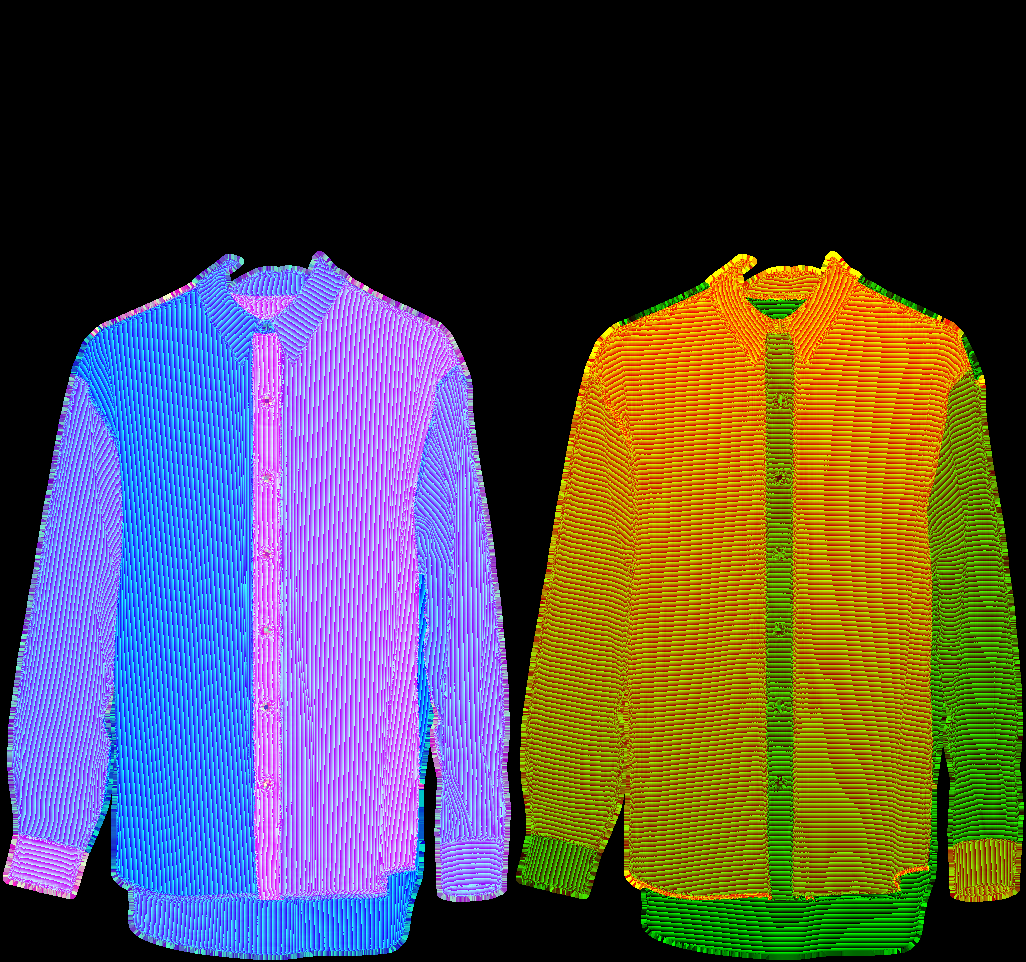
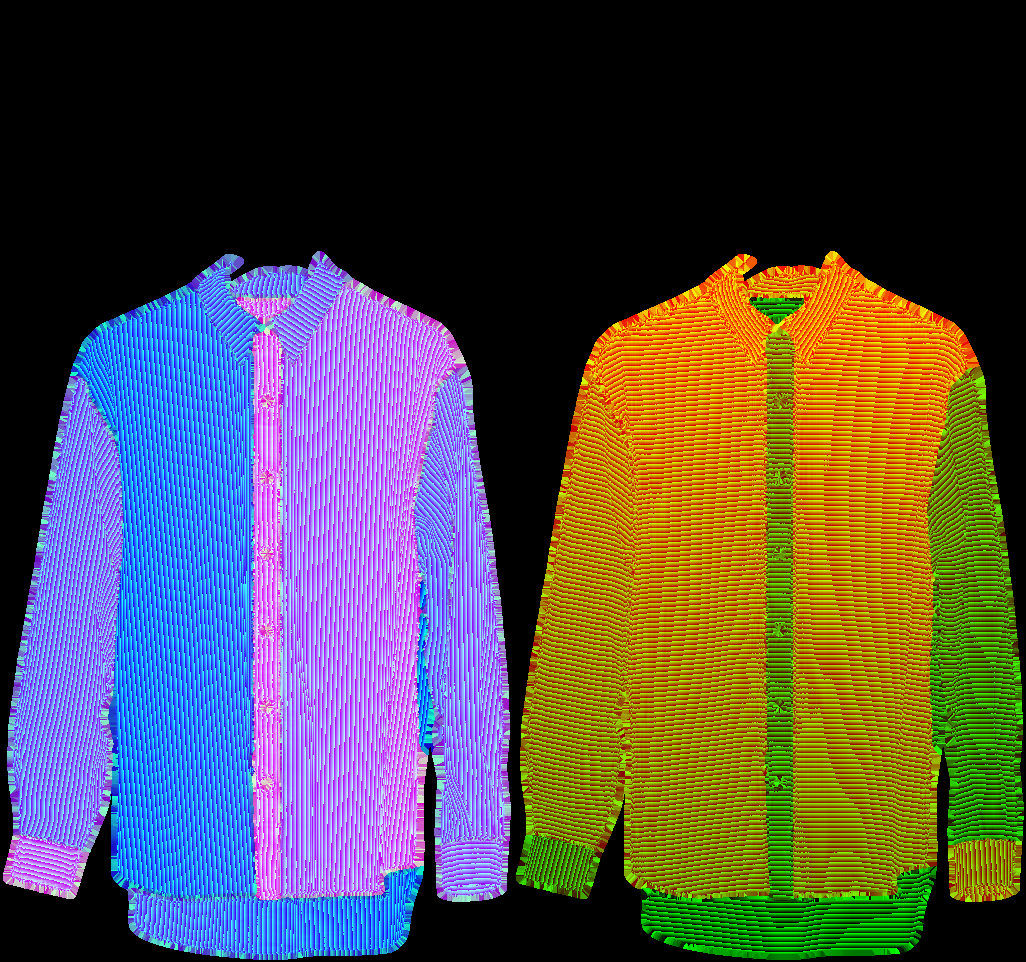
Camicia tinta: il disegno arriva fino a bordi e cuciture, niente parete tinta sui colli piccoli
Dalla revisione nel browser (in corso):
- sui rigati contrastati, lungo cuciture e contorni c'era una fascia del
  colore medio del tessuto (un profilo rosa attorno a una camicia a righe
  rosse). Ora contorni, cuciture e risvolti stretti prendono la posizione
  del punto buono più vicino del pezzo grande accanto, e lì il campione si
  legge appena sfocato: le righe arrivano al bordo, i microdisegni non
  fanno puntini;
- con i colli coreano e diplomatico la parete dipinta dal collo prendeva il
  colore del tessuto (una riga quasi nera lungo le spalle): la parete si
  riconosce dal suo blu e non si tinge.
Due controlli nuovi in prova-vesti.js (192 su 192 sulla copia di prova).

Claude-Session: https://claude.ai/code/session_01D8Lb2KTLGf2y6eiKFqLGEZ

diff --git a/src/configuratore/tinta.js b/src/configuratore/tinta.js
@@ -25,8 +25,8 @@ uniform vec2 misura, r0, r1, r2;
 uniform float morbido, fitto, passo, mezzo;
 varying vec2 q;
 // Un punto della trama: xy dove sta nel cartamodello, z se la posizione c'e (0 no, 1 vera, 3 presa in prestito dal
-// punto di stoffa piu vicino). La trama e larga il doppio: a sinistra la prima coordinata (rosso i bit alti, verde i
-// bassi) e nel blu se c'e; a destra la seconda coordinata
+// punto buono piu vicino: contorni, cuciture, risvolti stretti; vale come una vera). La trama e larga il
+// doppio: a sinistra la prima coordinata (rosso i bit alti, verde i bassi) e nel blu se c'e; a destra la seconda
 vec3 leggi(vec2 i) {
   vec2 d = vec2(0.5 / misura.x, 1.0 / misura.y);
   vec2 c = clamp(i, vec2(0.0), misura - 1.0);
@@ -41,13 +41,18 @@ float stessa(vec3 m, vec3 n) {
 }
 // il colore (lineare) di un campione in un punto del cartamodello: quanto sfocato lo dice quanto cambia la posizione
 // da un punto dello schermo al vicino (da lontano le righe sottili diventano il loro colore medio)
-vec3 campione(sampler2D t, vec2 rip, vec2 uv, vec2 dx, vec2 dy, float orlo) {
+vec3 campione(sampler2D t, vec2 rip, vec2 uv, vec2 dx, vec2 dy, float orlo, float prestito) {
   vec2 ex = dx * rip * 256.0 / fitto, ey = dy * rip * 256.0 / fitto;
-  // (mai piu nitido della stoffa stesa di fronte; sul bordo, dove la posizione e presa in prestito, sempre piu
-  // sfocato fino al colore medio: un contorno pulito, senza puntini)
+  // (mai piu nitido della stoffa stesa di fronte; oltre la sagoma, dove la foto sfuma nella parete, appena piu morbido.
+  // Fino al 26 novembre li e lungo le cuciture si leggeva il colore medio del tessuto: su un rigato contrastato
+  // veniva un profilo rosa tutto intorno. Ora il disegno prosegue fino al bordo: vedi impacchetta in trame.py)
   float piano = passo * max(rip.x, rip.y) * 256.0 / fitto;
   float fine = max(0.0, 0.5 * log2(max(max(dot(ex, ex), dot(ey, ey)), piano * piano) + 1e-12) + morbido);
-  fine = max(fine, mix(0.0, 7.0, orlo));
+  fine = max(fine, mix(0.0, 1.5, orlo));
+  // Dove la posizione e presa in prestito (contorni, cuciture) e la stessa per due o tre punti di fila: un disegno
+  // piu fine di cosi li darebbe un colore a caso per ogni punto (puntini lungo le cuciture). Li si legge sfocato di
+  // tre punti: le righe larghe restano righe, i microdisegni diventano il loro colore
+  fine = max(fine, 0.5 * log2(piano * piano + 1e-12) + morbido + 1.6 * prestito);
   // (la seconda coordinata del cartamodello cresce verso l'alto, le righe del campione verso il basso)
   return pow(texture2DLodEXT(t, vec2(uv.x, -uv.y) * rip, fine).rgb, vec3(2.2));
 }
@@ -63,13 +68,11 @@ vec3 stoffaDi(vec3 k, vec2 pk, vec3 a, vec3 b, vec3 c, vec3 d, vec4 w, vec3 zone
   vec3 xp = leggi(pk + vec2(1.0, 0.0)), xm = leggi(pk - vec2(1.0, 0.0)), yp = leggi(pk + vec2(0.0, 1.0)), ym = leggi(pk - vec2(0.0, 1.0));
   vec2 dx = stessa(k, xp) > 0.0 ? xp.xy - k.xy : (stessa(k, xm) > 0.0 ? k.xy - xm.xy : vec2(0.04, 0.0));
   vec2 dy = stessa(k, yp) > 0.0 ? yp.xy - k.xy : (stessa(k, ym) > 0.0 ? k.xy - ym.xy : vec2(0.0, 0.04));
-  // (anche dove tutte le posizioni sono prese in prestito, oltre la sagoma, il colore e quello medio)
   float prestate = (ma * float(a.z == 3.0) + mb * float(b.z == 3.0) + mc * float(c.z == 3.0) + md * float(d.z == 3.0)) / tutti;
-  float o = max(orlo, prestate);
   vec3 colore = vec3(0.0);
-  if (zone.x > 0.002) colore += zone.x * campione(t0, r0, uv, dx, dy, o);
-  if (zone.y > 0.002) colore += zone.y * campione(t1, r1, uv, dx, dy, o);
-  if (zone.z > 0.002) colore += zone.z * campione(t2, r2, uv, dx, dy, o);
+  if (zone.x > 0.002) colore += zone.x * campione(t0, r0, uv, dx, dy, orlo, prestate);
+  if (zone.y > 0.002) colore += zone.y * campione(t1, r1, uv, dx, dy, orlo, prestate);
+  if (zone.z > 0.002) colore += zone.z * campione(t2, r2, uv, dx, dy, orlo, prestate);
   return colore;
 }
 void main() {
@@ -81,7 +84,11 @@ void main() {
   float mx = clamp(q.x, mezzo, 1.0 - mezzo) * 0.5;
   vec3 mc = texture2D(maschera, vec2(mx, q.y)).rgb, mz = texture2D(maschera, vec2(mx + 0.5, q.y)).rgb;
   float lontano = f.a < 0.98 ? mc.b : 0.0;
-  float copre = mc.r + mc.g + lontano;
+  // Un collo piu piccolo (coreano, diplomatico) dipinge la parete dove quello di base non c'e piu: li la foto non e
+  // camicia, e tingerla darebbe una riga quasi nera lungo le spalle. La parete si riconosce dal suo blu pieno (la
+  // camicia bianca, anche in ombra, non e mai cosi satura)
+  float parete = smoothstep(0.58, 0.70, (f.b - f.r) / max(f.b, 0.02));
+  float copre = (mc.r + mc.g + lontano) * (1.0 - parete);
   vec2 s = q * misura - 0.5, i = floor(s), t = s - i;
   vec3 a = leggi(i), b = leggi(i + vec2(1.0, 0.0)), c = leggi(i + vec2(0.0, 1.0)), d = leggi(i + vec2(1.0, 1.0));
   vec4 w = vec4((1.0 - t.x) * (1.0 - t.y), t.x * (1.0 - t.y), (1.0 - t.x) * t.y, t.x * t.y);

diff --git a/tools/prova-vesti.js b/tools/prova-vesti.js
@@ -584,6 +584,46 @@ function proietta({ telefono, ferma: [L, T, W, H] }) {
     controlla('scheda grafica che non basta: nessun errore', errori.length === 0, errori.join(' | '));
     await contesto.close();
   }
+  {
+    // Dalla seconda revisione del 26: (1) un collo più piccolo (coreano, diplomatico) dipinge la parete dove quello di
+    // base non c'è più: lì la foto non è camicia e non va tinta (veniva una riga quasi nera lungo le spalle); (2) su un
+    // rigato contrastato il disegno arriva fino al bordo e alle cuciture (prima lì c'era il colore medio: un profilo rosa)
+    const a = await nuovo(COMPUTER[0][1], '&rigida'), { page } = a;
+    await pronta(page);
+    const tela = () => page.evaluate(() => { const c = [...document.querySelectorAll('.configura__addosso canvas.vesti__tinta')].pop(); window.__prima = window.__ora; window.__ora = c.getContext('2d').getImageData(0, 0, c.width, c.height); });
+    await manda(page, { tessuto: BIANCO, collo: 'coreano' }); await tinta(page); await posata(page); await page.waitForTimeout(500); await tela();
+    await manda(page, { tessuto: 't2408', collo: 'coreano' }); await posata(page); await page.waitForTimeout(700); await tela();
+    const parete = await page.evaluate(() => {
+      const a = window.__prima.data, b = window.__ora.data;
+      let parete = 0, cambiati = 0;
+      for (let i = 0; i < a.length; i += 4) {
+        if (a[i + 3] < 250 || a[i + 2] < 60 || (a[i + 2] - a[i]) / a[i + 2] < 0.62) continue;       // (la parete: blu pieno)
+        parete++;
+        if (Math.abs(a[i] - b[i]) + Math.abs(a[i + 1] - b[i + 1]) + Math.abs(a[i + 2] - b[i + 2]) > 45) cambiati++;
+      }
+      return { parete, cambiati };
+    });
+    controlla('collo coreano: la parete dipinta dal collo non prende il colore del tessuto', parete.parete > 1000 && parete.cambiati < 80, JSON.stringify(parete));
+    await manda(page, { tessuto: 't2920' }); await posata(page); await page.waitForTimeout(700); await tela();
+    const rosa = await page.evaluate(() => {
+      const { data: d, width: w, height: h } = window.__ora;
+      const vuoto = (x, y) => x < 0 || y < 0 || x >= w || y >= h || d[(y * w + x) * 4 + 3] < 40;
+      let fascia = 0, rosa = 0;
+      for (let y = 0; y < h; y++) for (let x = 0; x < w; x++) {
+        const i = (y * w + x) * 4;
+        if (d[i + 3] < 250) continue;
+        if (!(vuoto(x - 5, y) || vuoto(x + 5, y) || vuoto(x, y - 5) || vuoto(x, y + 5))) continue;       // (solo il contorno)
+        const R = d[i], G = d[i + 1], B = d[i + 2];
+        if (R < 60 || Math.abs(G - B) > 40) continue;                                                // (ombre profonde, gruccia)
+        fascia++;
+        const s = (R - Math.min(G, B)) / R;                                                          // 0 bianco, 0.8 rosso
+        if (s > 0.28 && s < 0.52) rosa++;
+      }
+      return { fascia, rosa, parte: +(rosa / fascia).toFixed(3) };
+    });
+    controlla('rigato rosso e bianco: sul contorno ci sono le righe, non una fascia di colore medio', rosa.fascia > 5000 && rosa.parte < 0.55, JSON.stringify(rosa));
+    await a.contesto.close();
+  }
   // le iniziali: il carattere elegante, e gli altri due da provare
   for (const [v, famiglia] of [['', 'Endero Iniziali Corsivo'], ['&iniziali=b', 'Endero Iniziali Romano'], ['&iniziali=c', 'Endero Iniziali Inglese']]) {
     const a = await nuovo(COMPUTER[0][1], '&rigida' + v), { page } = a;

diff --git a/camicia/opzioni/trame.py b/camicia/opzioni/trame.py
@@ -10,7 +10,7 @@ stoffa, dove sta nel cartamodello) e mappa-italiano.png (`parti.py mappa`: un co
       la posizione nel cartamodello di ogni punto della camicia ritagliata, e dei riquadri in cui un collo o il
       taschino la cambiano: 16 bit per coordinata, in un'immagine larga il doppio del suo riquadro (a sinistra la prima
       coordinata, a destra la seconda: rosso i bit alti, verde i bassi). Nel blu di sinistra: 255 una posizione vera,
-      200 una presa in prestito dal punto di stoffa più vicino, 0 niente.
+      200 una presa in prestito dal punto buono più vicino (contorni, cuciture, risvolti stretti), 0 niente.
   opzioni/maschera-base.png, maschera-collo-<nome>.png, maschera-taschino.png
       dove c'è stoffa e di quale zona (corpo, polsini, taschino: per chi vuole un tessuto diverso su una parte), a
       grandezza doppia, come la foto: così i bordi di bottoni, gruccia, polsini e taschino sono netti. Vedi `maschera`.
@@ -105,27 +105,74 @@ def impacchetta(trama, riquadro, uscita):
                     intorno += (ss2 & (np.abs(mu3 - uu2) < VICINO) & (np.abs(mv3 - vv2) < VICINO)).astype(np.int32)
         cambia = soli & (intorno >= 5)
         u = np.where(cambia, mu3, u); v = np.where(cambia, mv3, v)
-    u16 = np.clip(np.round(u * 65535), 0, 65535).astype(np.int64); v16 = np.clip(np.round(v * 65535), 0, 65535).astype(np.int64)
-    # Intorno alla stoffa (entro PRESTITO punti) ogni punto prende la posizione del punto di stoffa più vicino: la
-    # maschera, grande il doppio, decide dove c'è stoffa, e sul suo bordo una posizione deve esserci sempre
+    # --- I punti buoni e quelli che la posizione la prendono in prestito.
+    # Buono è un punto di stoffa la cui posizione è affidabile: sta dentro la sagoma (sul contorno la stoffa si vede di
+    # taglio e le posizioni calcolate ballano) e ha, a destra o a sinistra e sopra o sotto, un vicino sulla sua stessa
+    # stoffa a un passo credibile (un punto a cavallo di una cucitura no: lì il calcolo mescola le posizioni dei due
+    # pezzi e ne esce una che non esiste). Tutti gli altri (il contorno, le cuciture, le strisce larghe un punto, e
+    # PRESTITO punti oltre la sagoma, dove la maschera vuole comunque una posizione) prendono la posizione del punto
+    # buono più vicino: così righe e quadretti arrivano fino al bordo e alla cucitura. Prima lì si leggeva il colore
+    # medio del tessuto, e su un rigato contrastato veniva un profilo rosa lungo ogni cucitura e tutto intorno alla
+    # camicia (revisione del 2026-11-26).
+    dal_vuoto = cv2.distanceTransform((stoffa | ferro).astype(np.uint8), cv2.DIST_L2, 5)
+    di_taglio = stoffa & (dal_vuoto <= 1.5)
+    STRETTO = 0.006
+    def accanto(dy, dx):
+        u2, v2, s2 = np.roll(u, (dy, dx), (0, 1)), np.roll(v, (dy, dx), (0, 1)), np.roll(stoffa, (dy, dx), (0, 1))
+        ok = stoffa & s2 & (np.abs(u - u2) < STRETTO) & (np.abs(v - v2) < STRETTO)
+        # (np.roll fa il giro: la prima e l'ultima fila non hanno un vicino da quella parte)
+        if dy == 1: ok[0] = False
+        if dy == -1: ok[-1] = False
+        if dx == 1: ok[:, 0] = False
+        if dx == -1: ok[:, -1] = False
+        return ok, u2, v2
+    (sx_ok, u_sx, v_sx), (dx_ok, u_dx, v_dx) = accanto(0, 1), accanto(0, -1)          # il vicino di sinistra, di destra
+    (su_ok, u_su, v_su), (giu_ok, u_giu, v_giu) = accanto(1, 0), accanto(-1, 0)       # il vicino di sopra, di sotto
+    buoni = stoffa & ~di_taglio & (sx_ok | dx_ok) & (su_ok | giu_ok)
+    # I pezzetti stretti: lungo i bordi del colletto, le cuciture e il cannoncino si vedono i risvolti, ritagli del
+    # cartamodello larghi tre o quattro punti, ognuno con il suo verso: tinti ciascuno per conto suo, su un rigato
+    # fanno un marmorizzato lungo ogni bordo. Su una camicia vera lì la stoffa del pezzo grande gira e prosegue: quindi
+    # buono è solo chi sta in un pezzo largo almeno cinque punti (si consuma ogni pezzo di due punti dai suoi confini,
+    # cuciture comprese, e lo si fa ricrescere di due: ciò che non ricresce era stretto).
+    def passo_di(insieme, cresce):
+        esito = insieme.copy()
+        for (ok, _, _), (dy, dx) in (((sx_ok, 0, 0), (0, 1)), ((dx_ok, 0, 0), (0, -1)), ((su_ok, 0, 0), (1, 0)), ((giu_ok, 0, 0), (-1, 0))):
+            accanto_c = ok & np.roll(insieme, (dy, dx), (0, 1))
+            esito = (esito | (accanto_c & buoni)) if cresce else (esito & accanto_c)
+        return esito
+    cuore = buoni
+    for _ in range(2):
+        cuore = passo_di(cuore, False)
+    larghi = cuore
+    for _ in range(2):
+        larghi = passo_di(larghi, True)
+    if larghi.sum() >= 0.5 * buoni.sum():           # (in un riquadro piccolo, fatto solo di pezzi stretti, restano tutti)
+        buoni = larghi
     lontano, dove = cv2.distanceTransformWithLabels((~stoffa).astype(np.uint8), cv2.DIST_L2, 5, labelType=cv2.DIST_LABEL_PIXEL)
-    ys, xs = np.nonzero(stoffa)
-    if len(ys):
+    bordo = (~stoffa) & (lontano <= PRESTITO)
+    uf, vf = u.astype(np.float64).copy(), v.astype(np.float64).copy()
+    if buoni.any():
+        # (la posizione del punto buono più vicino, così com'è. Proseguirla con il passo di quel punto sembrava meglio
+        # ma dava un marmorizzato: vicino al contorno la stoffa gira, e il suo passo cambia da un punto all'altro)
+        py, px = np.nonzero((stoffa & ~buoni) | bordo)
+        _, da_chi = cv2.distanceTransformWithLabels((~buoni).astype(np.uint8), cv2.DIST_L2, 5, labelType=cv2.DIST_LABEL_PIXEL)
+        gy, gx = np.nonzero(buoni)
+        indice = np.zeros(da_chi.max() + 1, np.int64); indice[da_chi[gy, gx]] = np.arange(len(gy))
+        chi = indice[da_chi[py, px]]
+        uf[py, px] = u[gy[chi], gx[chi]]; vf[py, px] = v[gy[chi], gx[chi]]
+    elif stoffa.any():
+        # (un riquadro senza un solo punto buono: la posizione del punto di stoffa più vicino)
+        ys, xs = np.nonzero(stoffa)
         indice = np.zeros(dove.max() + 1, np.int64); indice[dove[ys, xs]] = np.arange(len(ys))
-        bordo = (~stoffa) & (lontano <= PRESTITO)
         by, bx = np.nonzero(bordo)
-        vicino = indice[dove[by, bx]]
-        u16[by, bx] = u16[ys[vicino], xs[vicino]]; v16[by, bx] = v16[ys[vicino], xs[vicino]]
-    else:
-        bordo = np.zeros_like(stoffa)
+        quale = indice[dove[by, bx]]
+        uf[by, bx] = u[ys[quale], xs[quale]]; vf[by, bx] = v[ys[quale], xs[quale]]
+    u16 = np.clip(np.round(uf * 65535), 0, 65535).astype(np.int64); v16 = np.clip(np.round(vf * 65535), 0, 65535).astype(np.int64)
     pieno = stoffa | bordo
     rgb = np.zeros((h, w * 2, 3), np.uint8)
     rgb[:, :w, 0] = np.where(pieno, u16 >> 8, 0); rgb[:, :w, 1] = np.where(pieno, u16 & 255, 0)
-    # Sul contorno della camicia la stoffa si vede di taglio e le posizioni calcolate ballano: anche lì (un punto e mezzo
-    # dentro la sagoma) si legge il colore medio del tessuto, come sul bordo esterno: un contorno pulito, senza puntini
-    dal_vuoto = cv2.distanceTransform((stoffa | ferro).astype(np.uint8), cv2.DIST_L2, 5)
-    di_taglio = stoffa & (dal_vuoto <= 1.5)
-    rgb[:, :w, 2] = np.where(stoffa & ~di_taglio, 255, np.where(bordo | di_taglio, 200, 0))
+    # nel blu: 255 una posizione vera, 200 una presa in prestito, 0 niente
+    rgb[:, :w, 2] = np.where(buoni, 255, np.where(pieno, 200, 0))
     rgb[:, w:, 0] = np.where(pieno, v16 >> 8, 0); rgb[:, w:, 1] = np.where(pieno, v16 & 255, 0)
     cv2.imwrite(uscita, rgb[..., ::-1], [cv2.IMWRITE_PNG_COMPRESSION, 9])
     return os.path.getsize(uscita)
